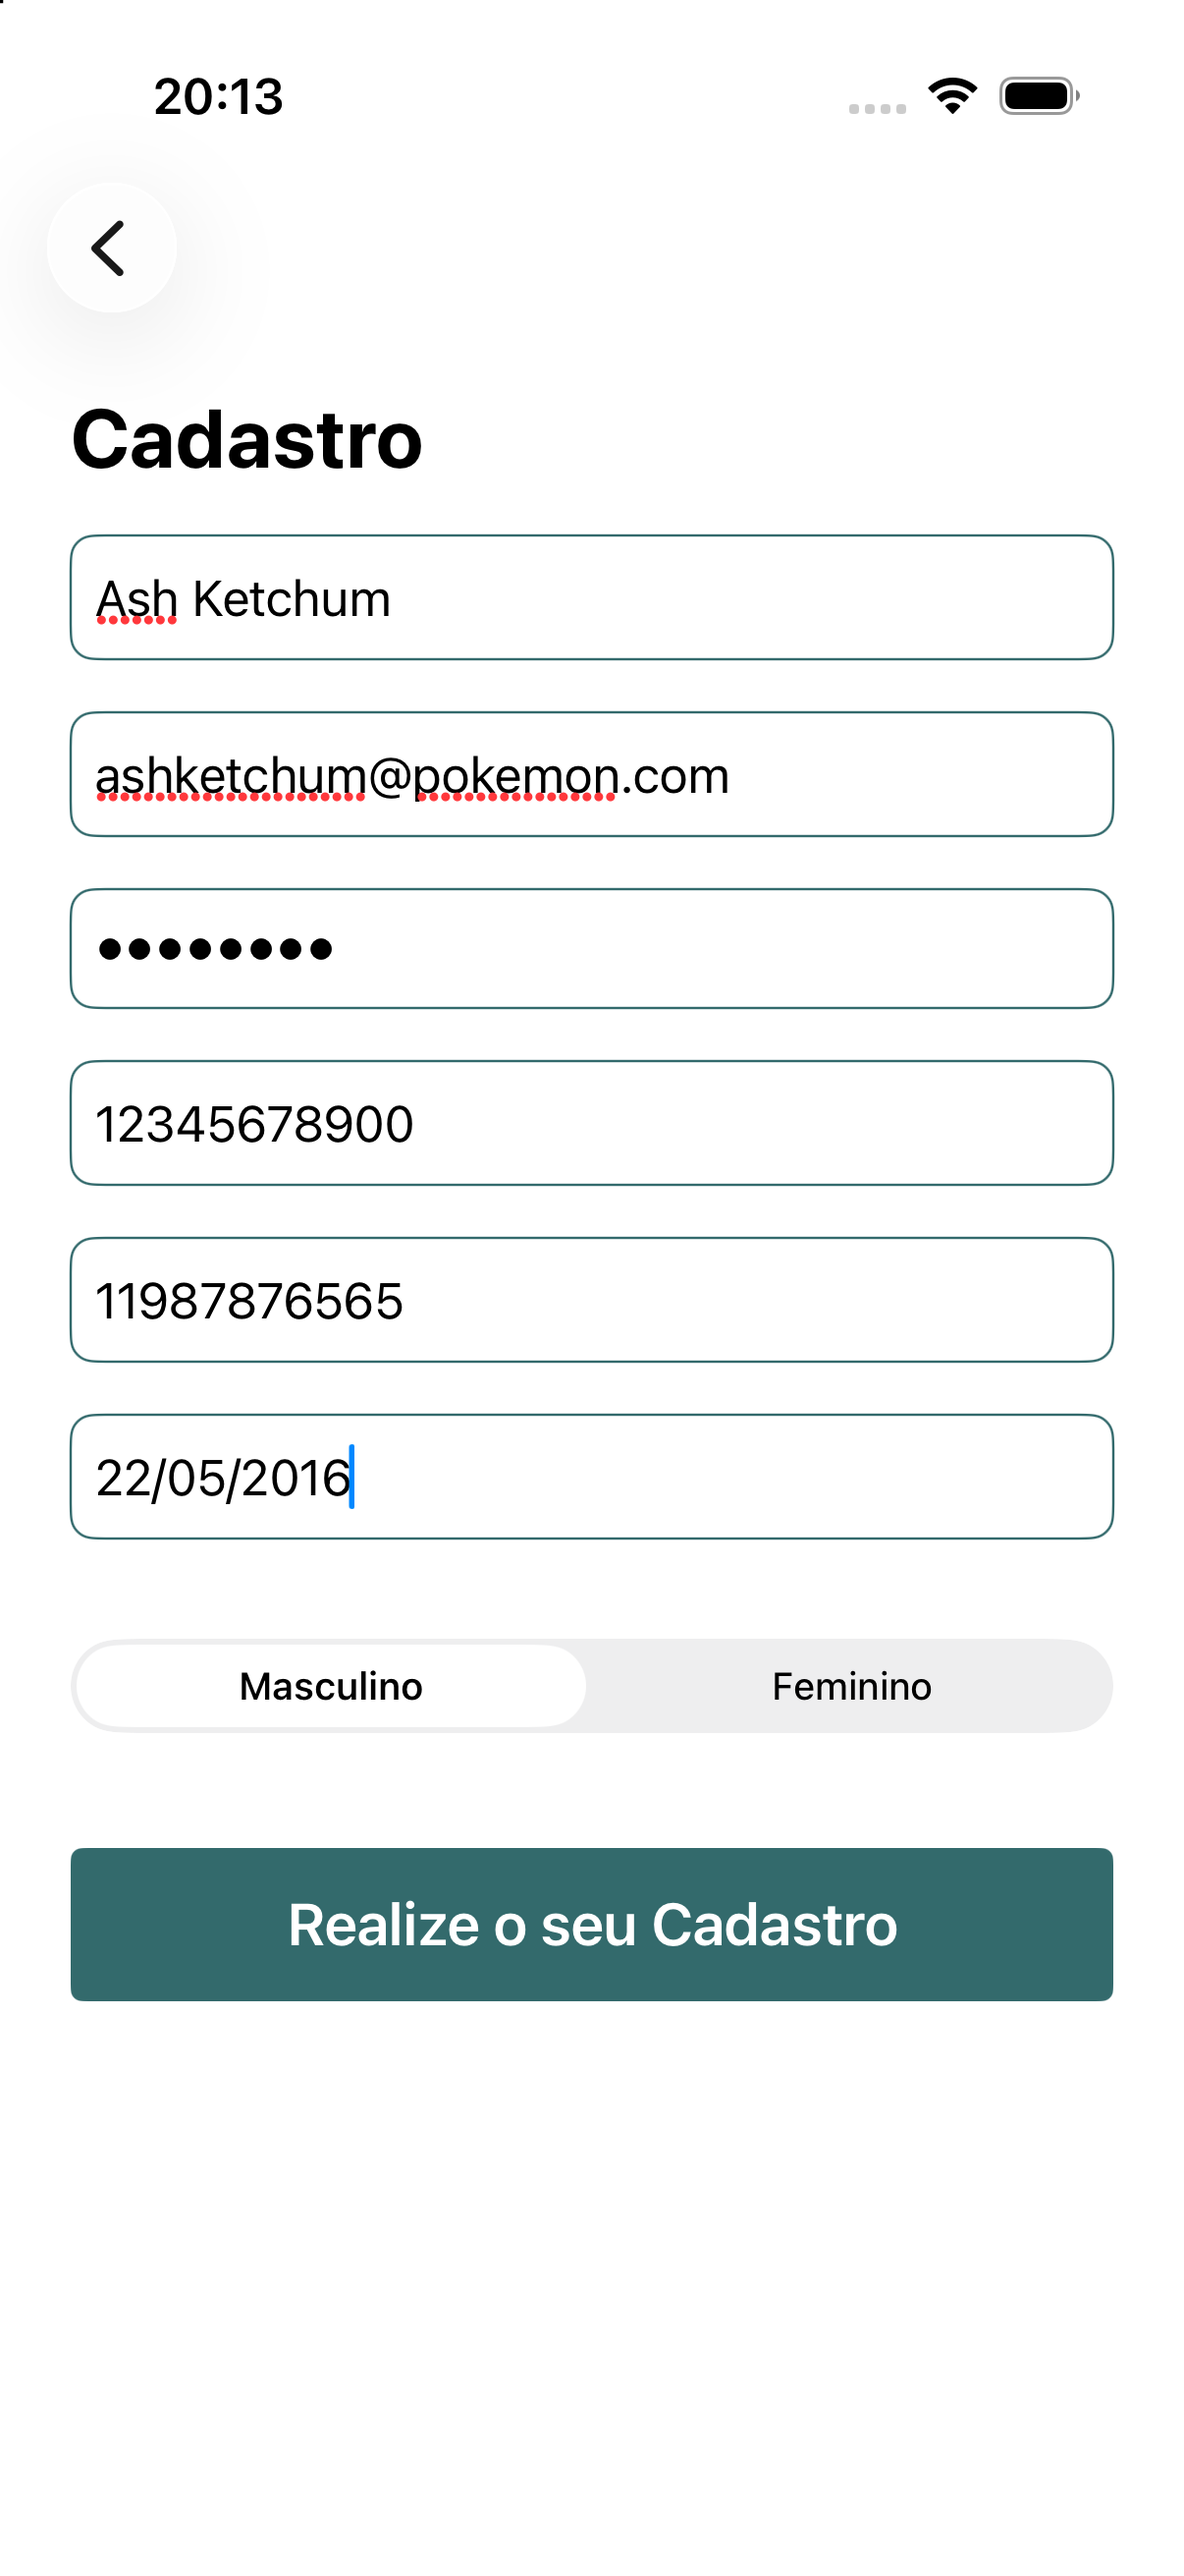
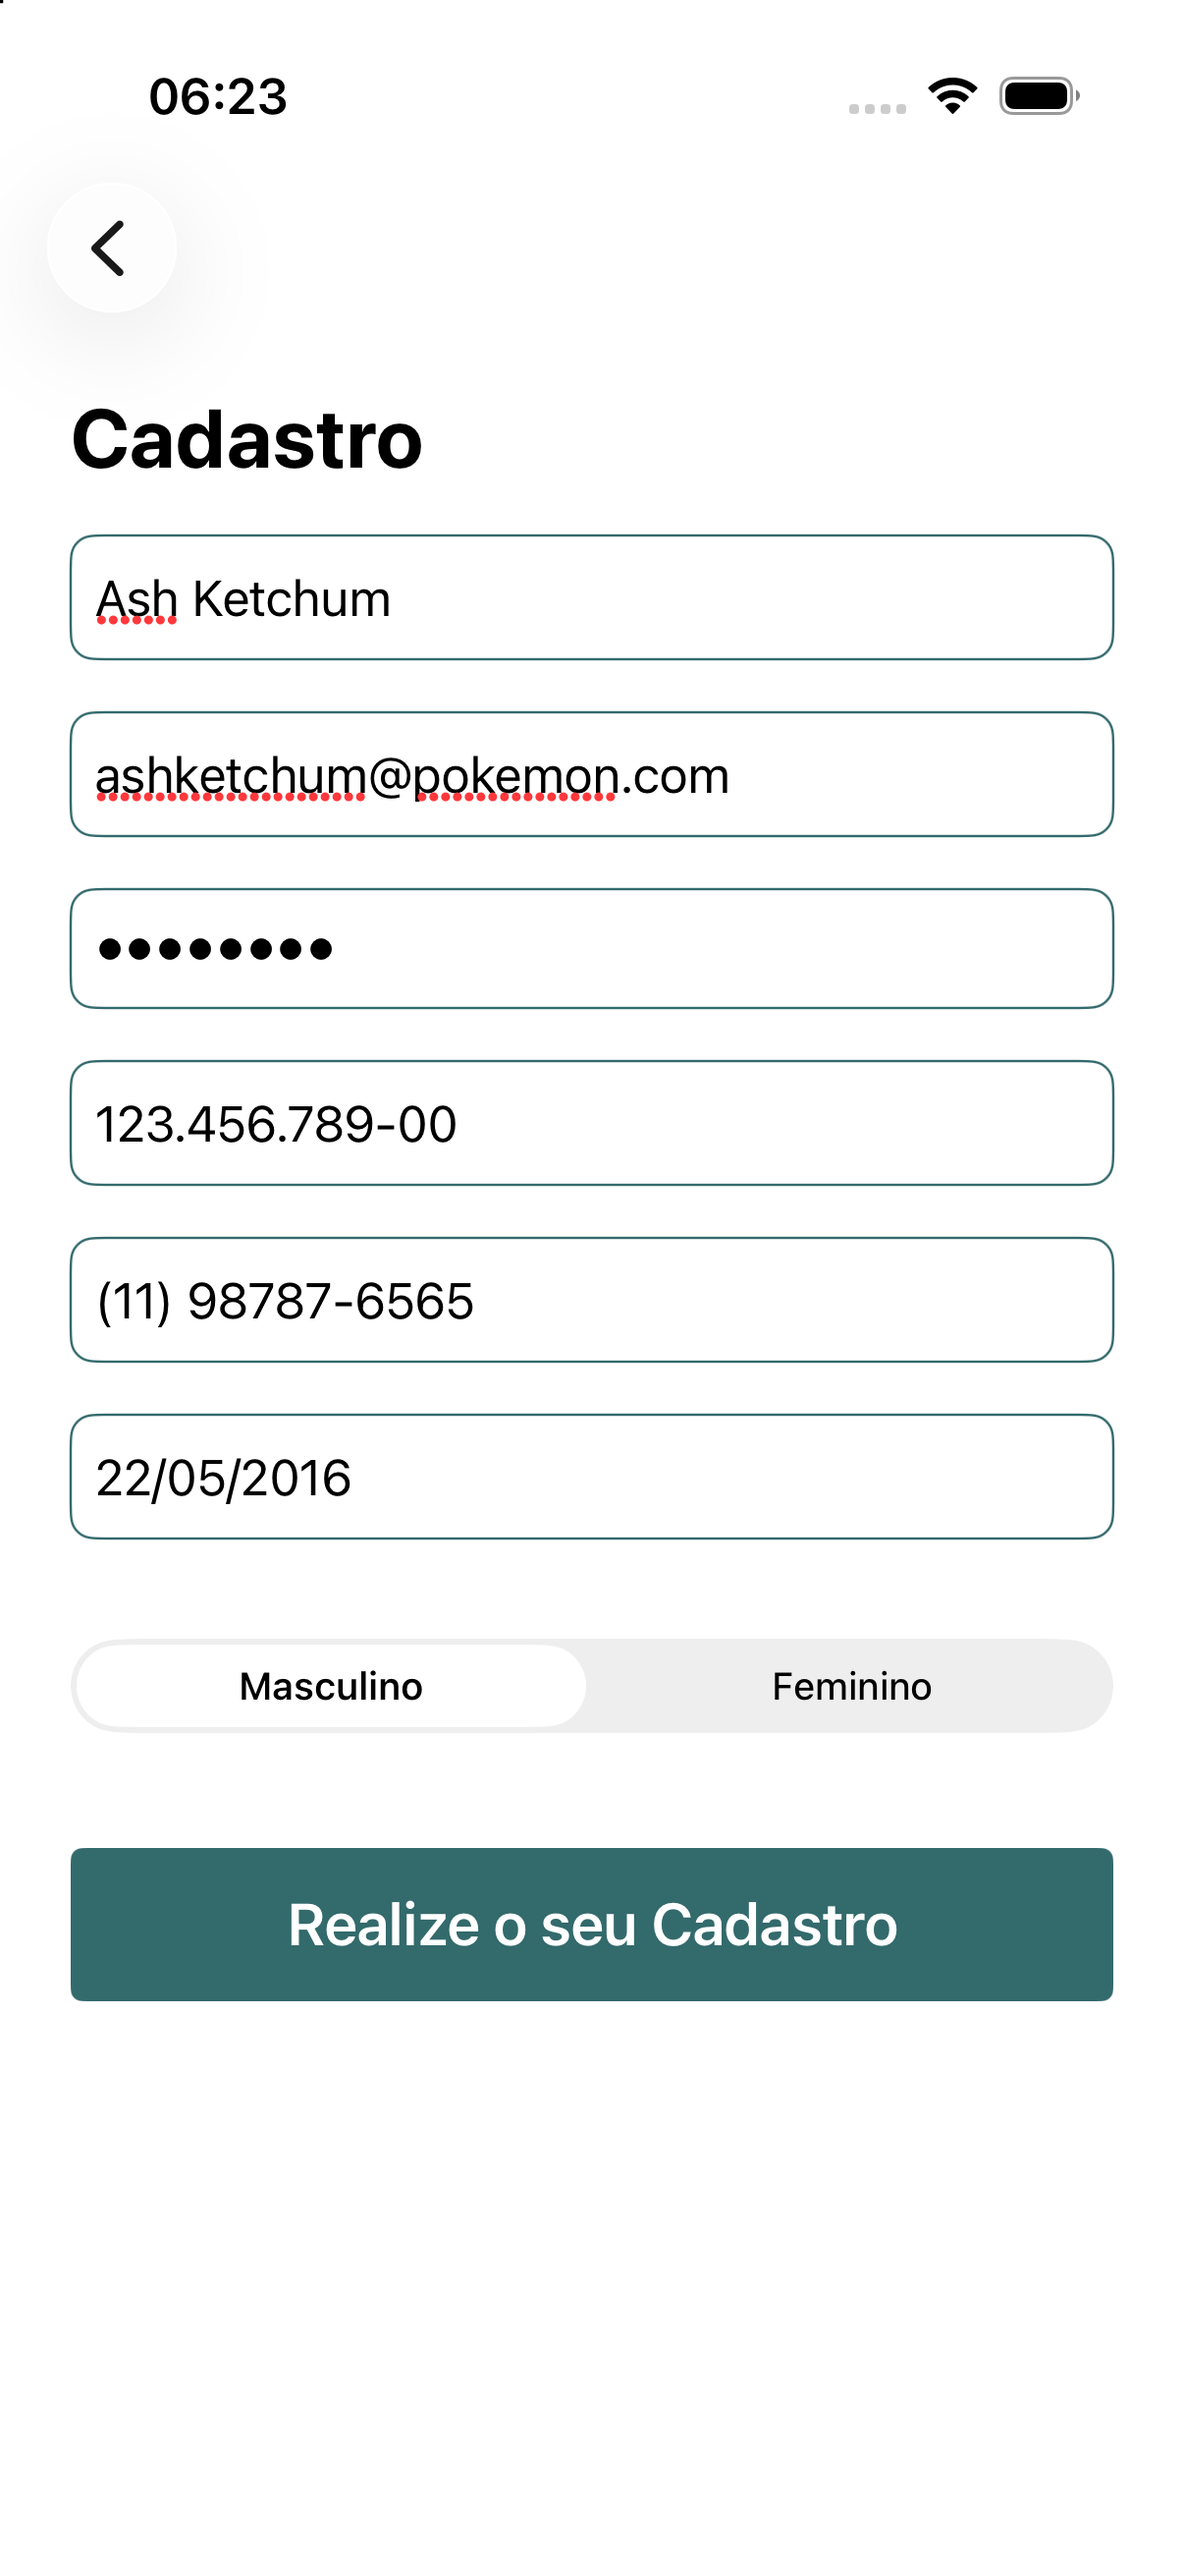
Implementando máscaras nos campos

diff --git a/MeusHabitos/Common/Util/Mask.swift b/MeusHabitos/Common/Util/Mask.swift
@@ -1,0 +1,75 @@
+//
+//  Mask.swift
+//  MeusHabitos
+//
+//  Created by Cristiano Ricardo Borges on 06/10/26.
+//
+
+import Foundation
+
+class Mask {
+    
+    static var isUpdating = false
+    static var oldString = ""
+    
+    private static func replaceChars(full: String) -> String {
+        full.replacingOccurrences(of: ".", with: "")
+            .replacingOccurrences(of: "-", with: "")
+            .replacingOccurrences(of: "(", with: "")
+            .replacingOccurrences(of: ")", with: "")
+            .replacingOccurrences(of: "/", with: "")
+            .replacingOccurrences(of: "*", with: "")
+            .replacingOccurrences(of: " ", with: "")
+    }
+    
+    static func mask(mask: String, value: String, text: inout String) {
+        let str = Mask.replaceChars(full: value)
+        var cpfWithMask = ""
+        
+        var _mask = mask
+        if (_mask == "(##) ####-####") {
+            if (value.count >= 14 && value.characterAtIndex(index: 5) == "9"){
+                _mask = "(##) #####-####"
+            }
+        }
+        
+        if (str <= oldString) {
+            isUpdating = true
+            if (_mask == "(##) #####-####" && value.count == 14) {
+                _mask = "(##) ####-####"
+            }
+        }
+        
+        if (isUpdating || value.count == mask.count) {
+            oldString = str
+            isUpdating = false
+            return
+        }
+        
+        var i = 0
+        for char in _mask {
+            if (char != "#" && str.count > oldString.count) {
+                cpfWithMask = cpfWithMask + String(char)
+                continue
+            }
+            
+            let unamed = str.characterAtIndex(index: i)
+            guard let char = unamed else { break }
+            
+            cpfWithMask = cpfWithMask + String(char)
+            
+            i = i + 1
+            
+        }
+        
+        isUpdating = true
+        
+        if(cpfWithMask == "(0") {
+            text = ""
+            return
+        }
+        
+        text = cpfWithMask
+        print(text)
+    }
+}

diff --git a/MeusHabitos/SignUp/View/SignUpView.swift b/MeusHabitos/SignUp/View/SignUpView.swift
@@ -95,9 +95,10 @@ extension SignUpView {
   var documentField: some View {
     EditTextView(text: $viewModel.document,
                  placeholder: "Entre com seu CPF *",
+                 mask: "###.###.###-##",
                  keyboard: .numberPad,
                  error: "CPF inválido",
-                 failure: viewModel.document.count != 11)
+                 failure: viewModel.document.count != 14)
     // TODO: mask
     // TODO: isDisabled
   }
@@ -107,9 +108,10 @@ extension SignUpView {
   var phoneField: some View {
     EditTextView(text: $viewModel.phone,
                  placeholder: "Entre com seu celular *",
+                 mask: "(##) ####-####",
                  keyboard: .numberPad,
                  error: "Entre com o DDD + 8 ou 9 digitos",
-                 failure: viewModel.phone.count < 10 || viewModel.phone.count >= 12)
+                 failure: viewModel.phone.count < 14 || viewModel.phone.count > 15)
     // TODO: mask
   }
 }
@@ -118,7 +120,8 @@ extension SignUpView {
   var birthdayField: some View {
     EditTextView(text: $viewModel.birthday,
                  placeholder: "Entre com com sua data de nascimento *",
-                 keyboard: .default,
+                 mask: "##/##/####",
+                 keyboard: .numberPad,
                  error: "Data deve ser dd/MM/yyyy",
                  failure: viewModel.birthday.count != 10)
     // TODO: mask
@@ -148,8 +151,8 @@ extension SignUpView {
     disabled: !viewModel.email.isEmail() ||
       viewModel.password.count < 8 ||
       viewModel.fullName.count < 3 ||
-      viewModel.document.count != 11 ||
-      viewModel.phone.count < 10 || viewModel.phone.count >= 12 ||
+      viewModel.document.count != 14 ||
+      viewModel.phone.count < 14 || viewModel.phone.count > 15 ||
       viewModel.birthday.count != 10)
   }
 }

diff --git a/MeusHabitos/Common/View/EditTextView.swift b/MeusHabitos/Common/View/EditTextView.swift
@@ -12,6 +12,7 @@ struct EditTextView: View {
     @Binding var text: String
     
     var placeholder: String = ""
+    var mask: String? = nil
     var keyboard: UIKeyboardType = .default
     var error: String? = nil
     var failure: Bool? = nil
@@ -32,6 +33,11 @@ struct EditTextView: View {
                     .keyboardType(keyboard)
                     .autocapitalization(autocaptalization)
                     .textFieldStyle(CustomTextFieldStyle())
+                    .onChange(of: text) { value in
+                        if let mask = mask {
+                            Mask.mask(mask: mask, value: value, text: &text)
+                        }
+                    }
             }
             
             if let error = error, failure == true, !text.isEmpty {

diff --git a/MeusHabitos/Common/Lang/String+Extension.swift b/MeusHabitos/Common/Lang/String+Extension.swift
@@ -8,6 +8,18 @@
 import Foundation
 
 extension String {
+    
+    func characterAtIndex(index: Int) -> Character? {
+        var cur = 0
+        for char in self {
+            if cur == index {
+                return char
+            }
+            cur = cur + 1
+        }
+        return nil
+    }
+    
     func isEmail() -> Bool {
         let regEx = "[A-Z0-9a-z._%+-]+@[A-Za-z0-9.-]+\\.[A-Za-z]{2,64}"
         
